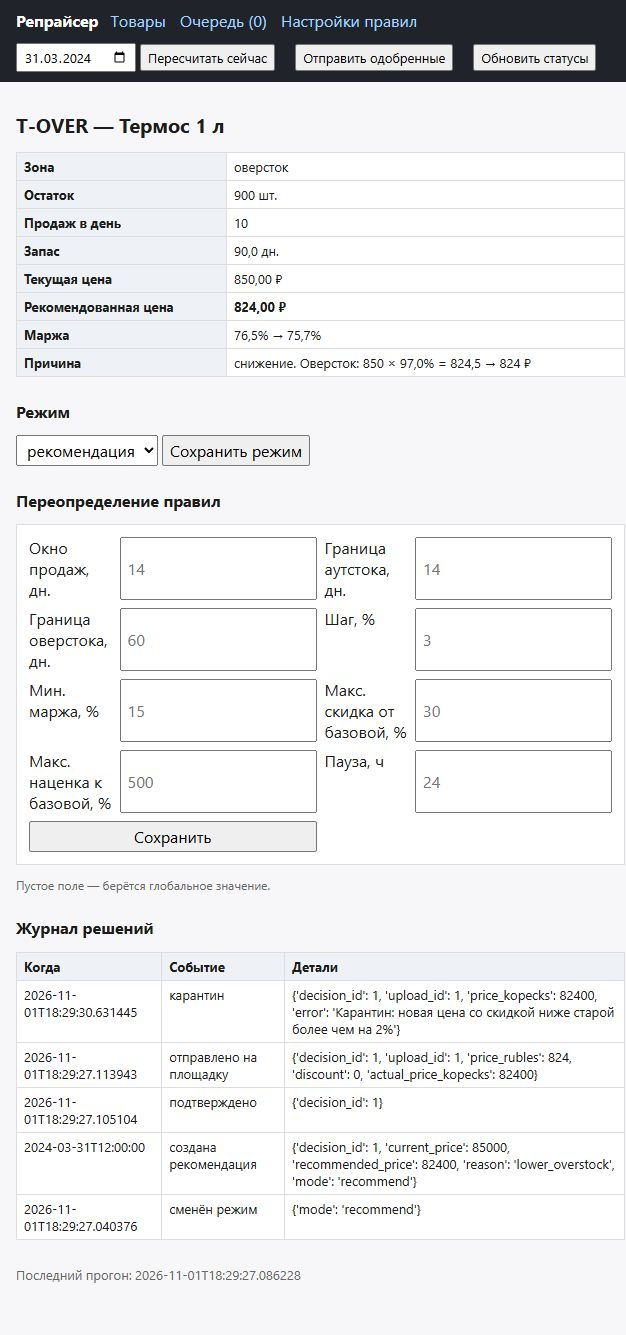
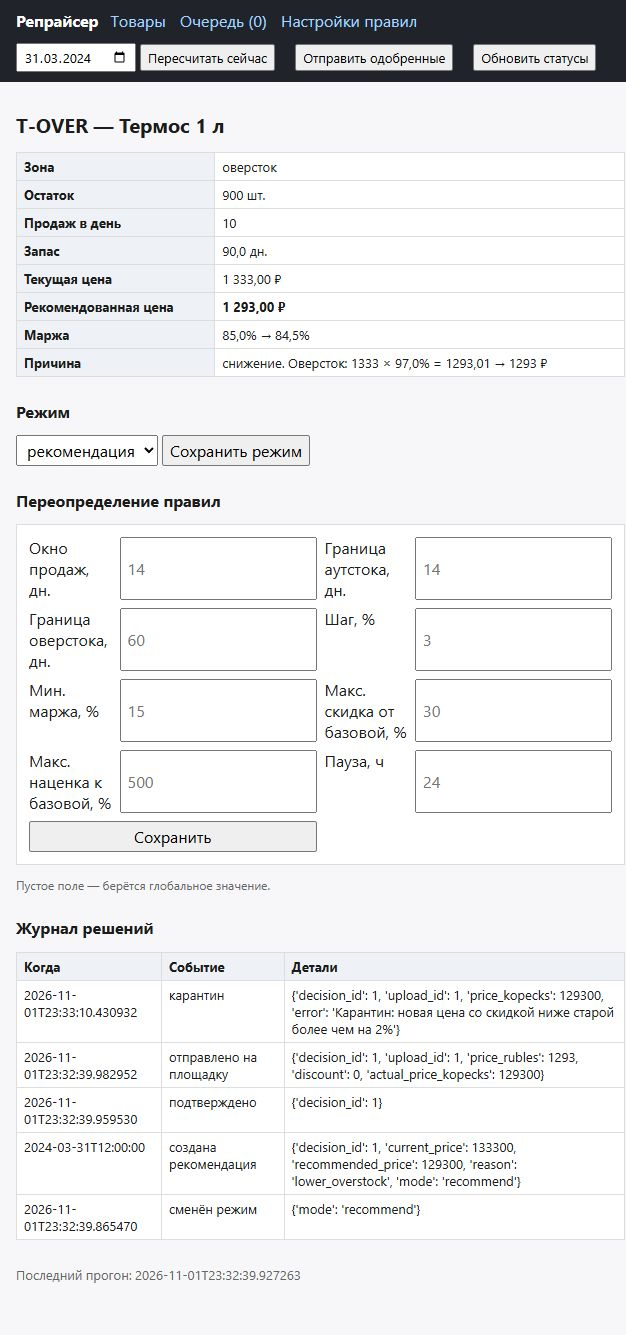
Документация и скриншоты под новую демо-базу
- T-OUT: 1 490 -> 1 535, базовая 1 500
- T-OVER: 1 333 -> 1 293, базовая 1 500
- обновлены ожидания TESTING и подписи README
- пересняты скриншоты таблицы, очереди, карточки и карантина

diff --git a/TESTING.md b/TESTING.md
@@ -25,7 +25,7 @@
 6. «Отправить одобренные» → `Отправлено: 3, ошибок: 0`.
 7. Подождать ≥ 3 секунд (задержка применения), «Обновить статусы» →
    `Обновлено задач: 1, решений: 3`.
-8. Карточка `T-OUT` → цена `3 533,00 ₽`, журнал: «создана рекомендация → подтверждено →
+8. Карточка `T-OUT` → цена `1 535,00 ₽`, журнал: «создана рекомендация → подтверждено →
    отправлено на площадку → цена применена».
 
 Если все восемь пунктов совпали — базовый сквозной сценарий работает.
@@ -219,8 +219,8 @@ Stop-Process -Id <PID> -Force
 | T-MISSING | — | нет на площадке | ∞ | — | — | — | нет карточки на площадке |
 | T-NORM | 100001 | норма | 30,0 | 1 500,00 | — | 66,7% | норма |
 | T-NOSALES | 100007 | оверсток | ∞ | 1 500,00 | **1 455,00** | 66,7 → 65,6 | нет продаж |
-| T-OUT | 100002 | аутсток | 5,0 | 3 430,00 | **3 533,00** | 65,0 → 66,0 | повышение |
-| T-OVER | 100003 | оверсток | 90,0 | 850,00 | **824,00** | 76,5 → 75,7 | снижение |
+| T-OUT | 100002 | аутсток | 5,0 | 1 490,00 | **1 535,00** | 19,5 → 21,8 | повышение |
+| T-OVER | 100003 | оверсток | 90,0 | 1 333,00 | **1 293,00** | 85,0 → 84,5 | снижение |
 | T-OVER60 | 100014 | оверсток | 60,1 | 1 500,00 | **1 455,00** | 66,7 → 65,6 | снижение |
 | T-WARN | 100006 | норма | 30,0 | 1 400,00 | — | 7,1% ⚠ | норма, маржа ниже минимальной |
 | T-WARNOUT | 100011 | аутсток | 5,0 | 1 410,00 | **1 453,00** | 7,8 → 10,5 ⚠ | повышение, предупреждение |
@@ -241,8 +241,8 @@ Stop-Process -Id <PID> -Force
 
 | Товар | Рекомендация (после скидки) | Цена до скидки в `upload/task` | Скидка | Фактическая цена |
 |---|---|---|---|---|
-| T-OUT | 3 533,00 | 3 533 | 0% | 353 300 коп. |
-| T-OVER | 824,00 | 824 | 0% | 82 400 коп. |
+| T-OUT | 1 535,00 | 1 535 | 0% | 153 500 коп. |
+| T-OVER | 1 293,00 | 1 293 | 0% | 129 300 коп. |
 | T-DISC | 3 523,00 | **3 914** | 10% | **352 260 коп.** (3 522,60 ₽) |
 
 `T-DISC` — наглядный пример модели WB: достижимая цена отличается от цели на копейки, репрайсер
@@ -256,8 +256,8 @@ Stop-Process -Id <PID> -Force
 
 1. `pytest tests\test_control_examples.py -v` — 14 примеров приложения А ТЗ + пауза + границы,
    все проходят.
-2. Ручная сверка одного примера из таблицы выше: `T-OUT` 3 430 × 1,03 = 3 532,9 → 3 533 ₽,
-   маржа растёт 65,0 → 66,0%.
+2. Ручная сверка одного примера из таблицы выше: `T-OUT` 1 490 × 1,03 = 1 534,7 → 1 535 ₽,
+   маржа растёт 19,5 → 21,8%.
 
 ### 4.2. Зоны, шаг, коридор, маржа, округление
 
@@ -271,10 +271,10 @@ Stop-Process -Id <PID> -Force
    `T-CEIL` — в верхнюю (1 500 × (100 + 500)% = 1 500 × 6 = 9 000).
 5. Минимальная маржа: `T-MARGIN` — снижение запрещено, причина «минимальная маржа»; `T-WARN`,
    `T-WARNOUT` — предупреждение ⚠ без блокировки.
-6. Базовая цена: колонка «Базовая цена» берётся из учёта (`T-OUT` 3 500, `T-OVER` 900,
+6. Базовая цена: колонка «Базовая цена» берётся из учёта (`T-OUT` 1 500, `T-OVER` 1 500,
    `T-DISC` 4 000) и стоит перед текущей; от неё считается коридор.
-7. Округление: `T-CHEAP` 10 → 11, `T-OUT` 3 532,9 → 3 533 (вверх), `T-OVER` 824,5 → 824 (вниз,
-   «в сторону шага»).
+7. Округление: `T-CHEAP` 10 → 11, `T-OUT` 1 534,7 → 1 535 (вверх), `T-OVER` 1 293,01 → 1 293
+   (вниз, «в сторону шага»).
 8. Дата расчёта: в фильтре задать `2024-03-20`, «Показать» — в окно 07–20 марта попадают только
    18–20 (демо-продажи начинаются 18-го), продажи/день падают примерно до 2,1, запас растёт:
    `T-OUT` 5,0 → 23,3 дн. (норма), `T-EXACT14` 14,0 → 65,3 дн. (оверсток), `T-NORM` 30 → 140 дн.
@@ -295,13 +295,13 @@ Stop-Process -Id <PID> -Force
 
 Подготовка: `T-OUT` и `T-OVER` — «рекомендация», `T-DISC` — «авто» (как в смоуке).
 
-1. «Пересчитать сейчас» → `новых рекомендаций 3`; «Очередь (3)» (`T-OUT` 3 533 и `T-OVER` 824
+1. «Пересчитать сейчас» → `новых рекомендаций 3`; «Очередь (3)» (`T-OUT` 1 535 и `T-OVER` 1 293
    ждут подтверждения, `T-DISC` 3 523 — авто).
 2. **Повторный прогон до отправки** → `новых рекомендаций 0`, очередь по-прежнему 2.
 3. **Смена цели → замена (переопределение товара)**: в карточке `T-OVER` задать «Шаг, %» = `10` →
-   «Сохранить» → прогон → цена `T-OVER` в очереди стала 765 (850 × 0,9), остальные рекомендации
+   «Сохранить» → прогон → цена `T-OVER` в очереди стала 1 199 (1 333 × 0,9), остальные рекомендации
    не изменились; в журнале карточки — «рекомендация заменена» и новая «создана рекомендация».
-4. Очистить поле «Шаг, %» в карточке `T-OVER` → «Сохранить» → прогон — цель снова 824, старая
+4. Очистить поле «Шаг, %» в карточке `T-OVER` → «Сохранить» → прогон — цель снова 1 293, старая
    рекомендация заменена.
 5. **Подтверждённое решение не дублируется**: подтвердить `T-OUT`, не отправляя, и прогнать
    снова → `новых рекомендаций 0`.
@@ -331,8 +331,8 @@ Stop-Process -Id <PID> -Force
    `WB_APPLY_DELAY_SECONDS` до 15) → `Обновлено задач: 0`: задача ещё в обработке (`status = 1`).
 3. Подождать 3 секунды и повторить → `Обновлено задач: 1, решений: N`.
 4. Карточка товара: журнал «подтверждено → отправлено на площадку → цена применена».
-5. Проверить цены на площадке (раздел 4.13, список товаров): `T-OUT` — 353 300 коп.,
-   `T-OVER` — 82 400 коп., `T-DISC` — 391 400 коп. до скидки и 352 260 коп. после.
+5. Проверить цены на площадке (раздел 4.13, список товаров): `T-OUT` — 153 500 коп.,
+   `T-OVER` — 129 300 коп., `T-DISC` — 391 400 коп. до скидки и 352 260 коп. после.
 6. Пачка: у отправленных решений одинаковый `upload_id` (виден в журнале карточки), в эмуляторе
    `GET /api/v2/history/tasks?uploadID=<id>` перечислены все товары пачки.
 7. Повторное «Отправить одобренные» без новых решений → `Отправлено: 0, ошибок: 0`.
@@ -348,7 +348,7 @@ Stop-Process -Id <PID> -Force
 4. Подождать 3 секунды, «Обновить статусы» → `решений: 1`; статус решения — `quarantine`.
 5. Карточка `T-OVER`: журнал «карантин», текст «Карантин: новая цена со скидкой ниже старой более
    чем на 2%». Пример — `docs/screenshots/05-quarantine.jpg`.
-6. Список товаров эмулятора: цена `T-OVER` осталась 85 000 коп. (850 ₽) — снижение не применено.
+6. Список товаров эмулятора: цена `T-OVER` осталась 133 300 коп. (1 333 ₽) — снижение не применено.
 7. Вернуть порог `30` для дальнейших сценариев.
 
 Другие места, где видно карантин: `GET /api/v2/history/tasks` и `/history/goods/task` эмулятора
@@ -382,7 +382,7 @@ Stop-Process -Id <PID> -Force
    маржа, причина, режим, переопределения, журнал.
 2. **Переопределение правил**: в карточке `T-OVER` задать «Граница оверстока, дн.» = `200` →
    «Сохранить» → прогон: запас 90 дней теперь «норма», рекомендации по товару нет. Очистить поле и
-   сохранить — снова «оверсток» и цена 824.
+   сохранить — снова «оверсток» и цена 1 293.
 3. **Глобальная граница оверстока**: «Настройки» → `overstock_days = 200` → «Сохранить» → прогон:
    `T-OVER`, `T-CORRIDOR`, `T-OVER60` становятся «нормой» и пропадают из рекомендаций, а
    `T-NOSALES` остаётся оверстоком с ценой 1 455 (у него нет продаж, граница не важна).
@@ -401,8 +401,8 @@ Stop-Process -Id <PID> -Force
 
 ### 4.10. Настройки и планировщик
 
-1. «Настройки правил»: изменить «Шаг, %» на `10` → «Сохранить» → прогон: `T-OUT` 3 430 × 1,1 =
-   3 773, `T-OVER` 765, `T-CORRIDOR` остаётся 1 050 (нижняя граница). Вернуть `3`.
+1. «Настройки правил»: изменить «Шаг, %» на `10` → «Сохранить» → прогон: `T-OUT` 1 490 × 1,1 =
+   1 639, `T-OVER` 1 199, `T-CORRIDOR` остаётся 1 050 (нижняя граница). Вернуть `3`.
 2. «Мин. маржа, %» = `90` → прогон: снижения `T-OVER`, `T-NOSALES` блокируются «минимальной
    маржой». Вернуть `15`.
 3. «Макс. скидка от базовой, %» = `50` → у `T-CORRIDOR` нижняя граница опускается до
